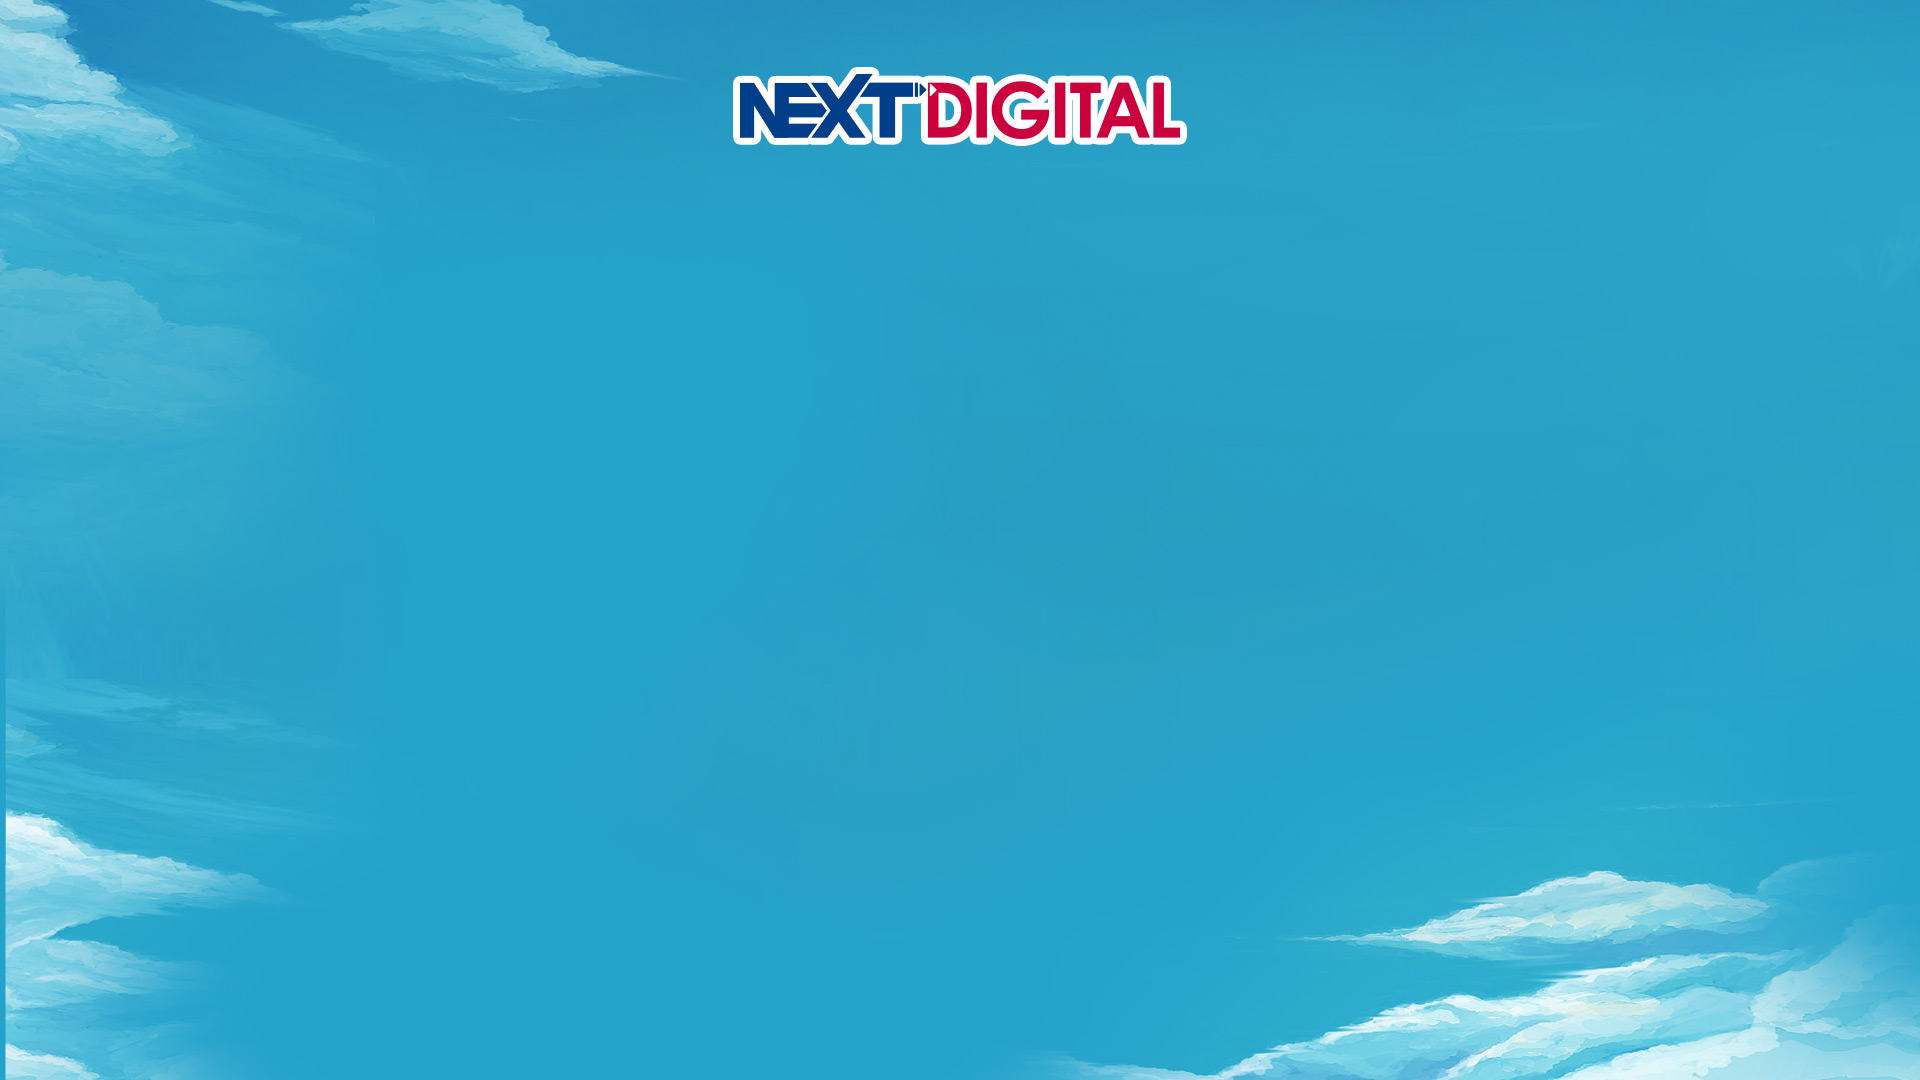
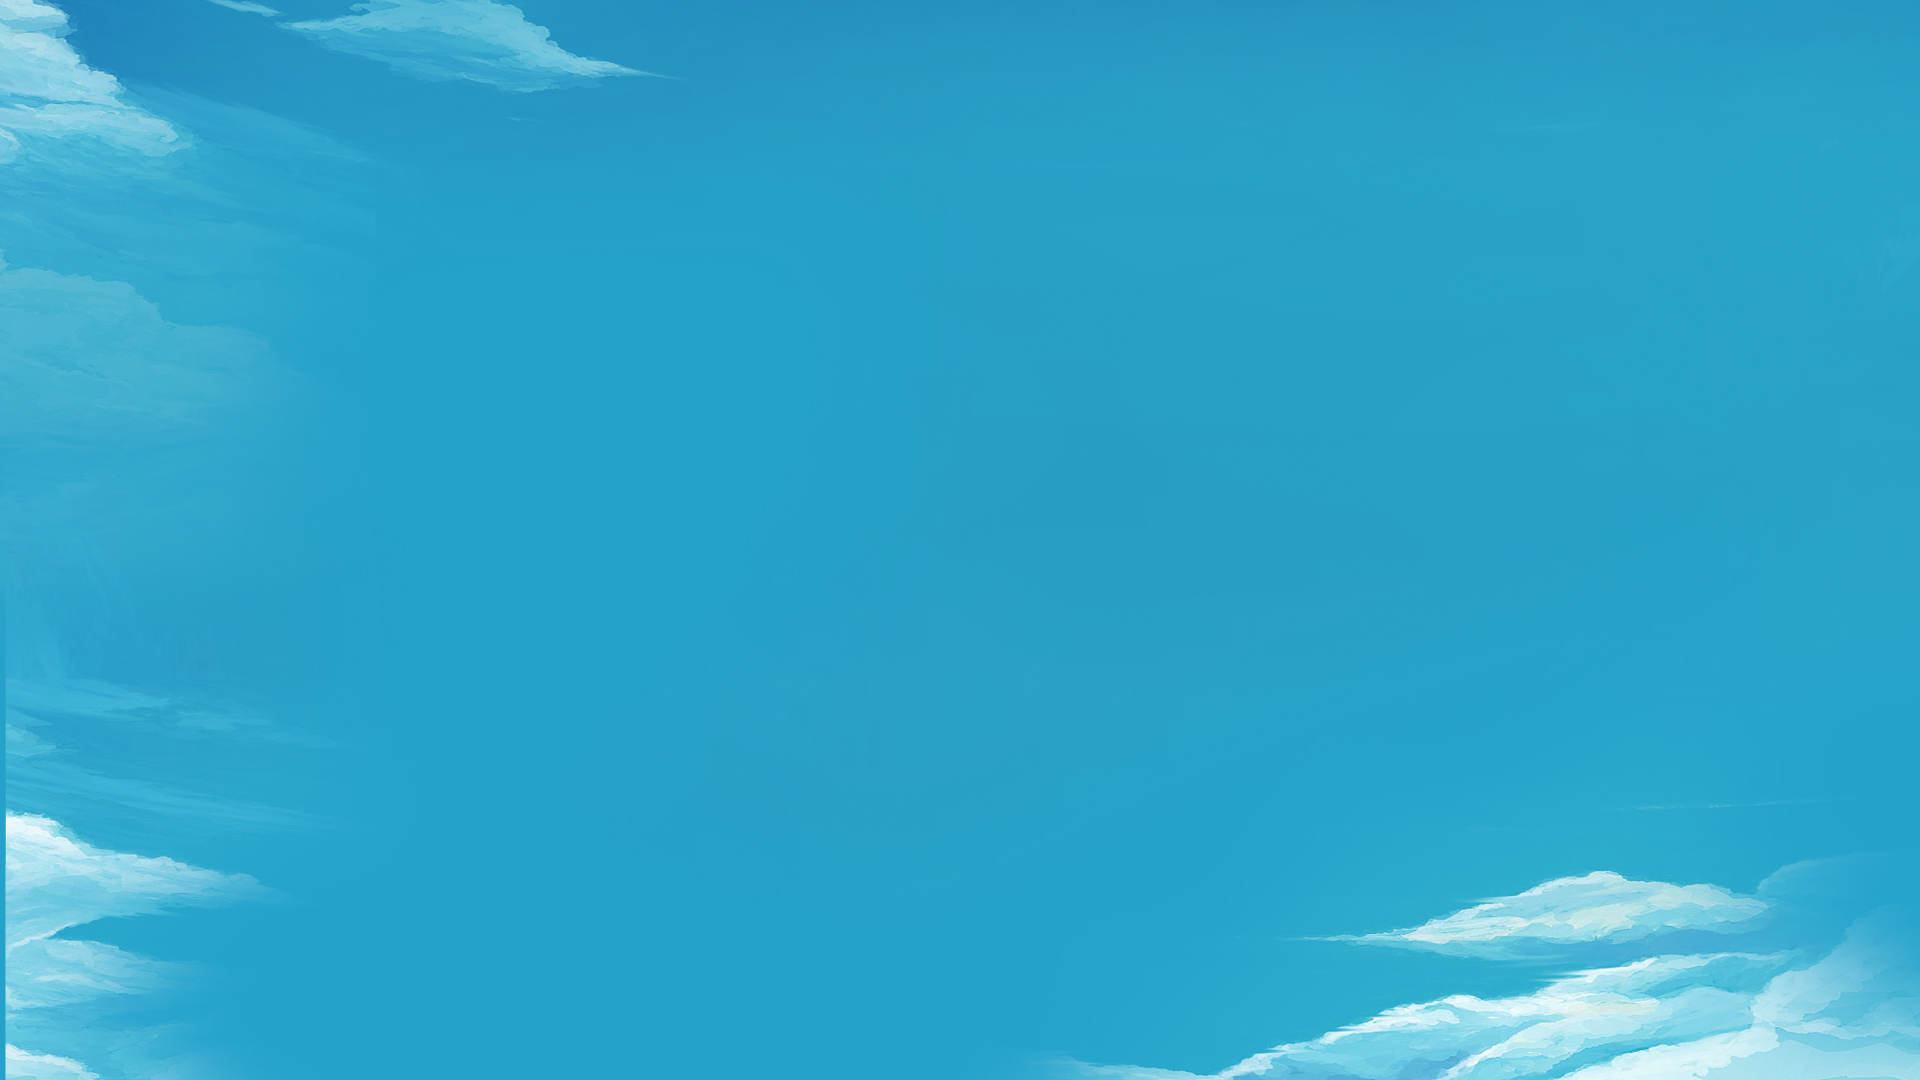
wo
w

Changed region(s): [[0.375, 0.0611, 0.625, 0.1528]]

diff --git a/board/board_re.html b/board/board_re.html
@@ -20,38 +20,135 @@
 
 <style>
 html {
-cursor: url(http://mapi.appledaily.com.hk/images/blank.png), default;
+	width:100%;
+	height:100%;
+	/*cursor: url(http://mapi.appledaily.com.hk/images/blank.png), default;*/
 }
 body {
-margin: 0;
-padding: 0;
-background-image: url(http://mapi.appledaily.com.hk/images/billboard/bg.jpg);
-width: 100%;
-height: 1920px;
-background-repeat: no-repeat;
-background-position: center top;
-overflow-y: hidden;
+	margin: 0;
+	padding: 0;
+	background: url(bg.jpg) center top no-repeat;
+	width: 100%;
+	height: 100%;
+	overflow-y: hidden;
+	background-size: cover;
+	font-size: 16px/26px;
 }
 body::-webkit-scrollbar { width: 0 !important }
 
+
+#underTesting{
+	position: fixed;
+	z-index: 9;
+	width:100%;
+	height:100%;
+	top:0;
+	left:0;
+	display: none;
+}
+
+#nextdigital-logo{
+	text-align: center;
+	padding:12vw 8vw 0;
+}
+#nextdigital-logo img{
+	width:55vw;
+	height:auto;
+	max-width: 580px;
+}
+
+#apple_logo{
+	font-size:6vw;
+	color:#fdff6f;
+	text-align: center;
+	padding: 8vw;
+}
+#apple_logo img{
+	max-width: 150px;
+	width:15vw;
+	height: auto;
+}
+.shadow{
+	text-shadow: 3px 3px 15px rgba(0, 0, 0, 0.8);
+}
+
+.slider_item{
+	padding:4vw 8vw;
+	text-align: right;
+}
+.slider_item .item{
+	padding:4vw 0 8vw;
+}
+.slider_item .item #title1{
+	color:#fdff6f;
+	font-size:8vw;
+}
+.slider_item .item #stat1{
+	color:#fdff6f;
+	font-size:15vw;
+}
+.slider_item .item #title2{
+	color:#fff;
+	font-size:8vw;
+}
+.slider_item .item #stat2{
+	color:#fff;
+	font-size:15vw;
+}
 @media all and (orientation:landscape) {
+	body{
+		background:#24a2ca url(bg_landscape.jpg) center top;
+		background-size:100% auto;
+	}
+	#nextdigital-logo{
+		padding: 6vh 8vh 0;
+	}
+	#nextdigital-logo img {
+	    width: 39vh;
+	    height: auto;
+	    max-width: 360px;
+	}
+	#apple_logo {
+	    font-size: 4.5vh;
+	    color: #fdff6f;
+	    text-align: center;
+	    padding: 4vh 8vh;
+	}
+	#apple_logo img{
+		width:13vh;
+	}
+	#slides{
+		max-width:80vh;
+		margin:0 auto;
+	}
+	.slider_item{
+		padding:0 8vh;
+	}
+	.slider_item .item{
+		padding:0 0 5vh;
+	}
+	.slider_item .item #title1, .slider_item .item #title2{font-size: 5vh;}
+	.slider_item .item #stat1, .slider_item .item #stat2{font-size: 12vh;}
+
 }
 </style>
 </head>
 <body>
-
+<div id="nextdigital-logo">
+	<img src="nextdigital_logo_for_board.png" />
+</div>
 <div id="apple_logo">
 	<img src="http://billboard.apple.nextmedia.com/images/billboard/logo.png"/>
-	<span id="slide_1_title">動新聞<span>、</span>即時新聞及文章</span>
+	<span id="slide_1_title" class="shadow">動新聞<span>、</span>即時新聞及文章</span>
 </div>
 <div id="slides">
 	<div class="slider_item">
-		<div class="item">
+		<div class="item shadow">
 		<div id="title1">今日點擊 ()</div>
 		<div id="stat1">&nbsp;</div>
 		</div>
 
-		<div class="item">
+		<div class="item shadow">
 		<div id="title2">昨日總點擊</div>
 		<div id="stat2">&nbsp;</div>
 		</div>
